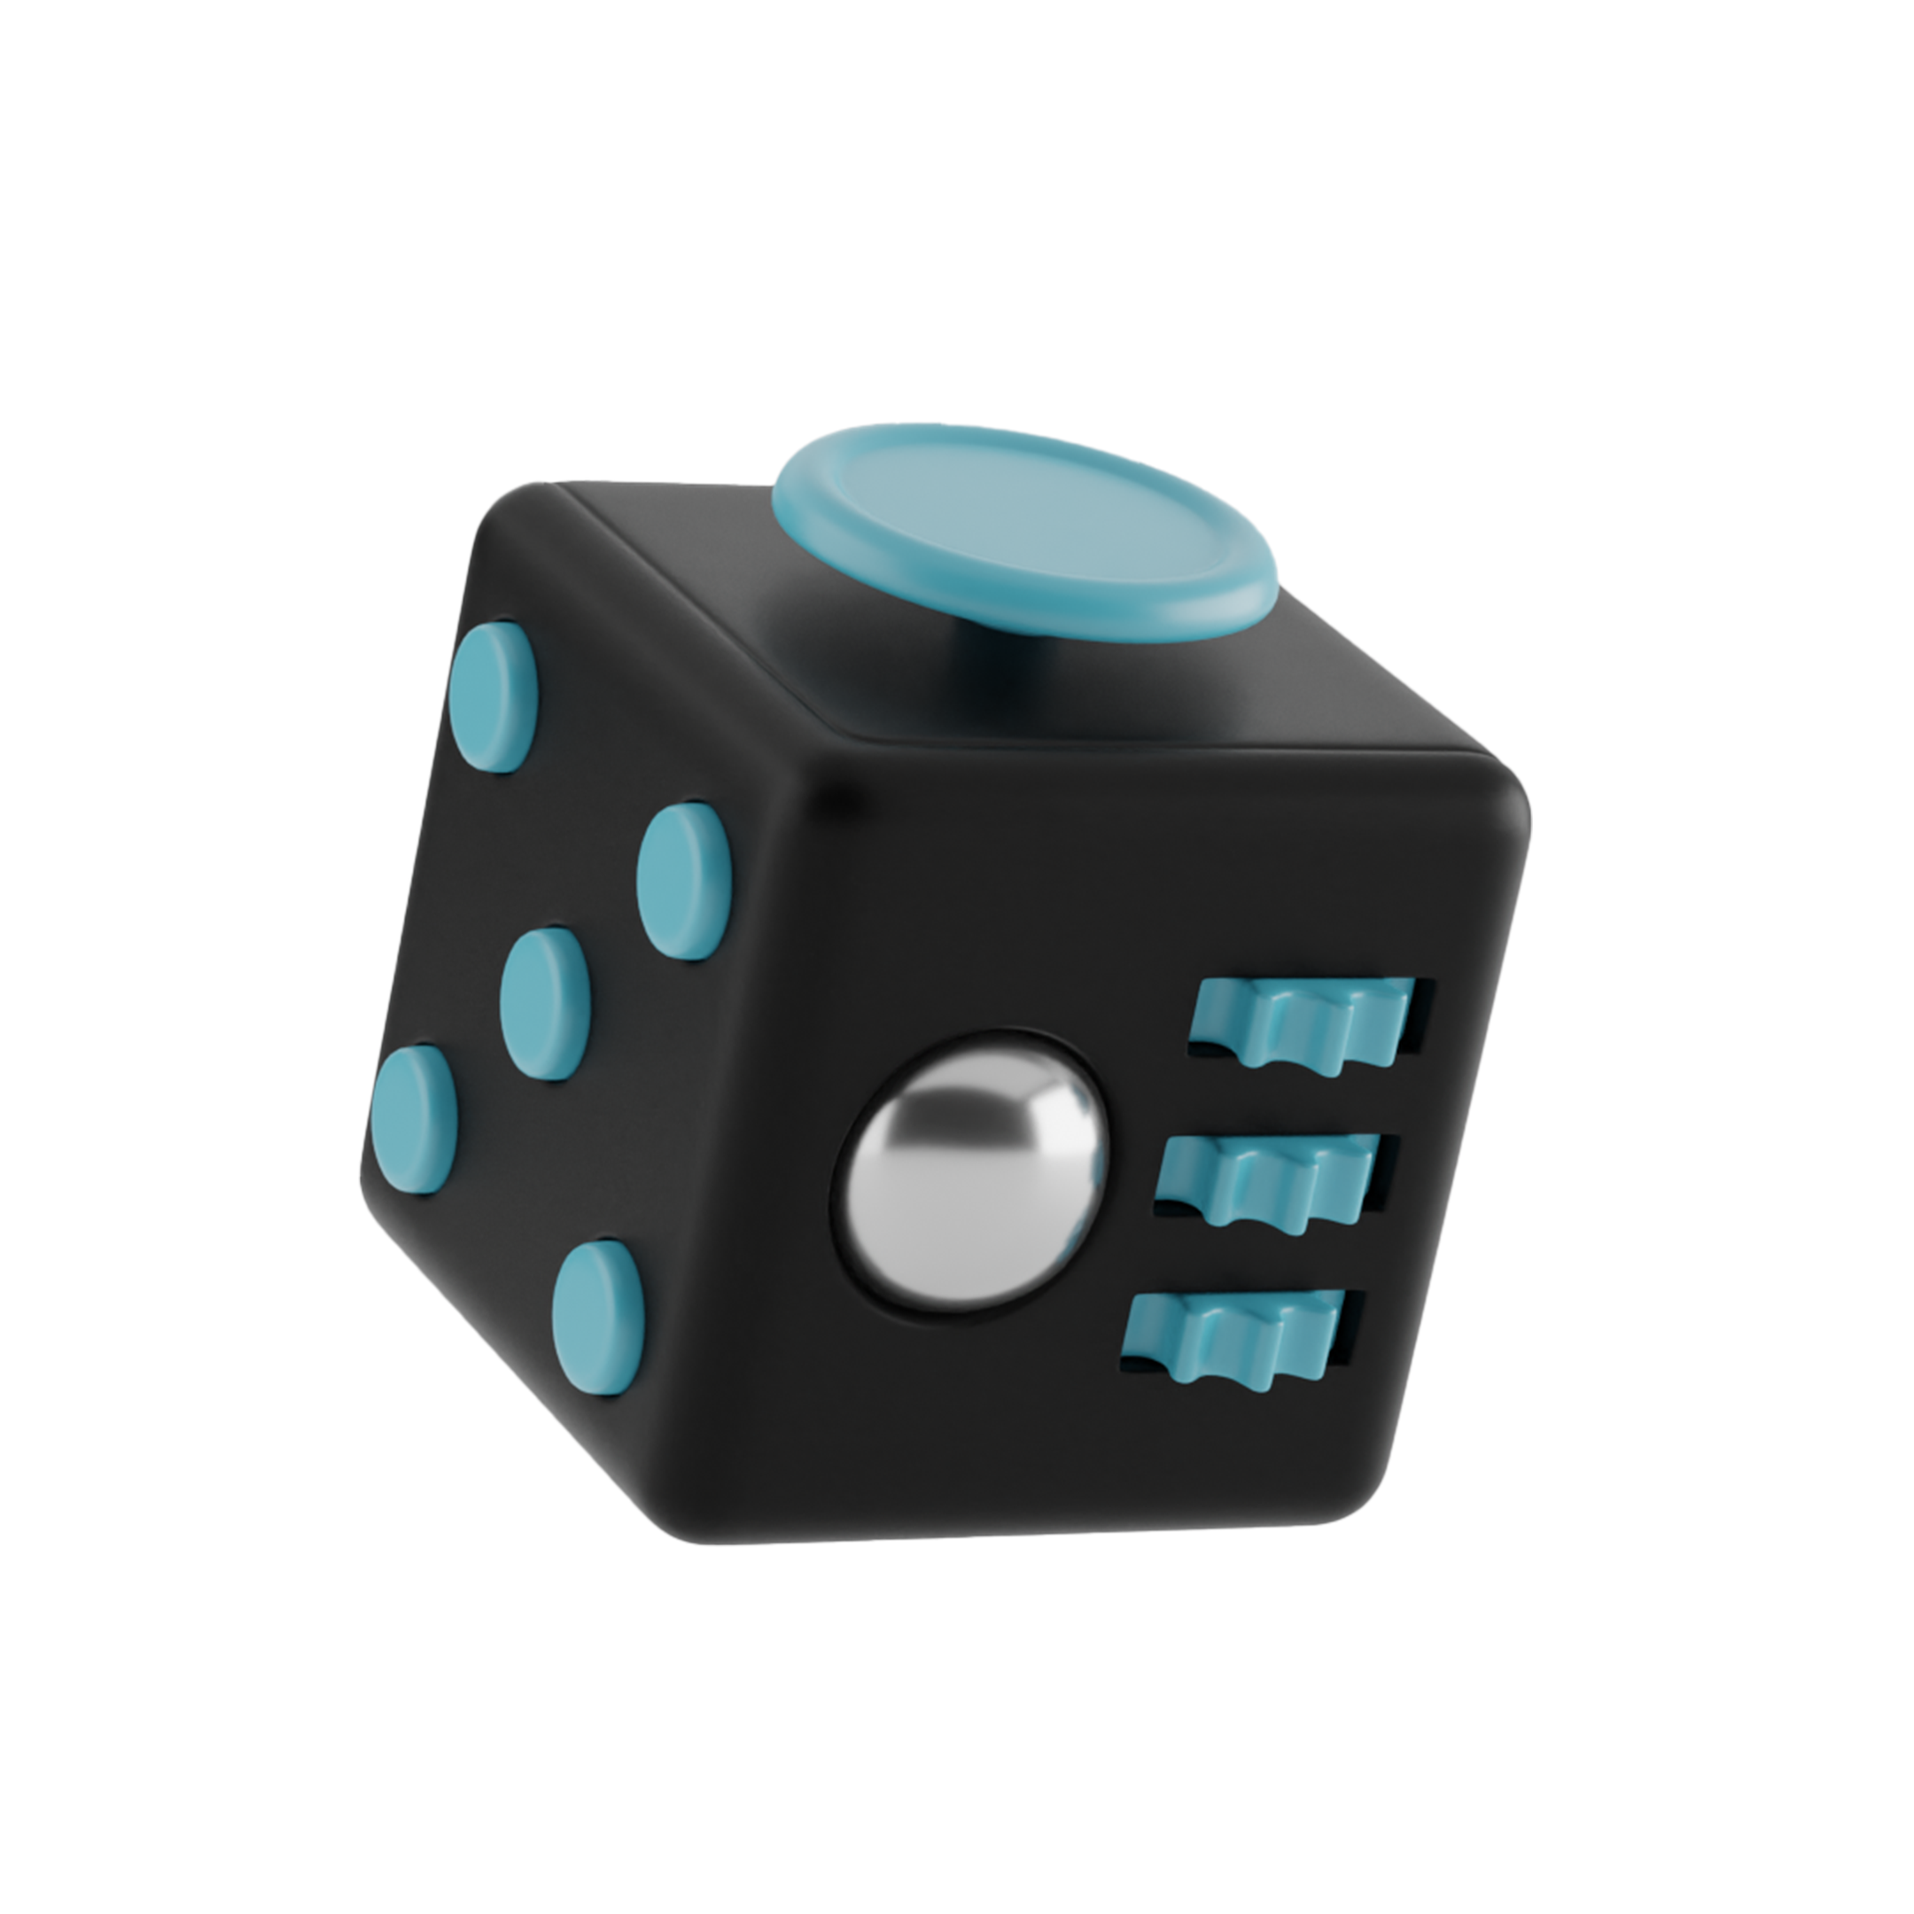
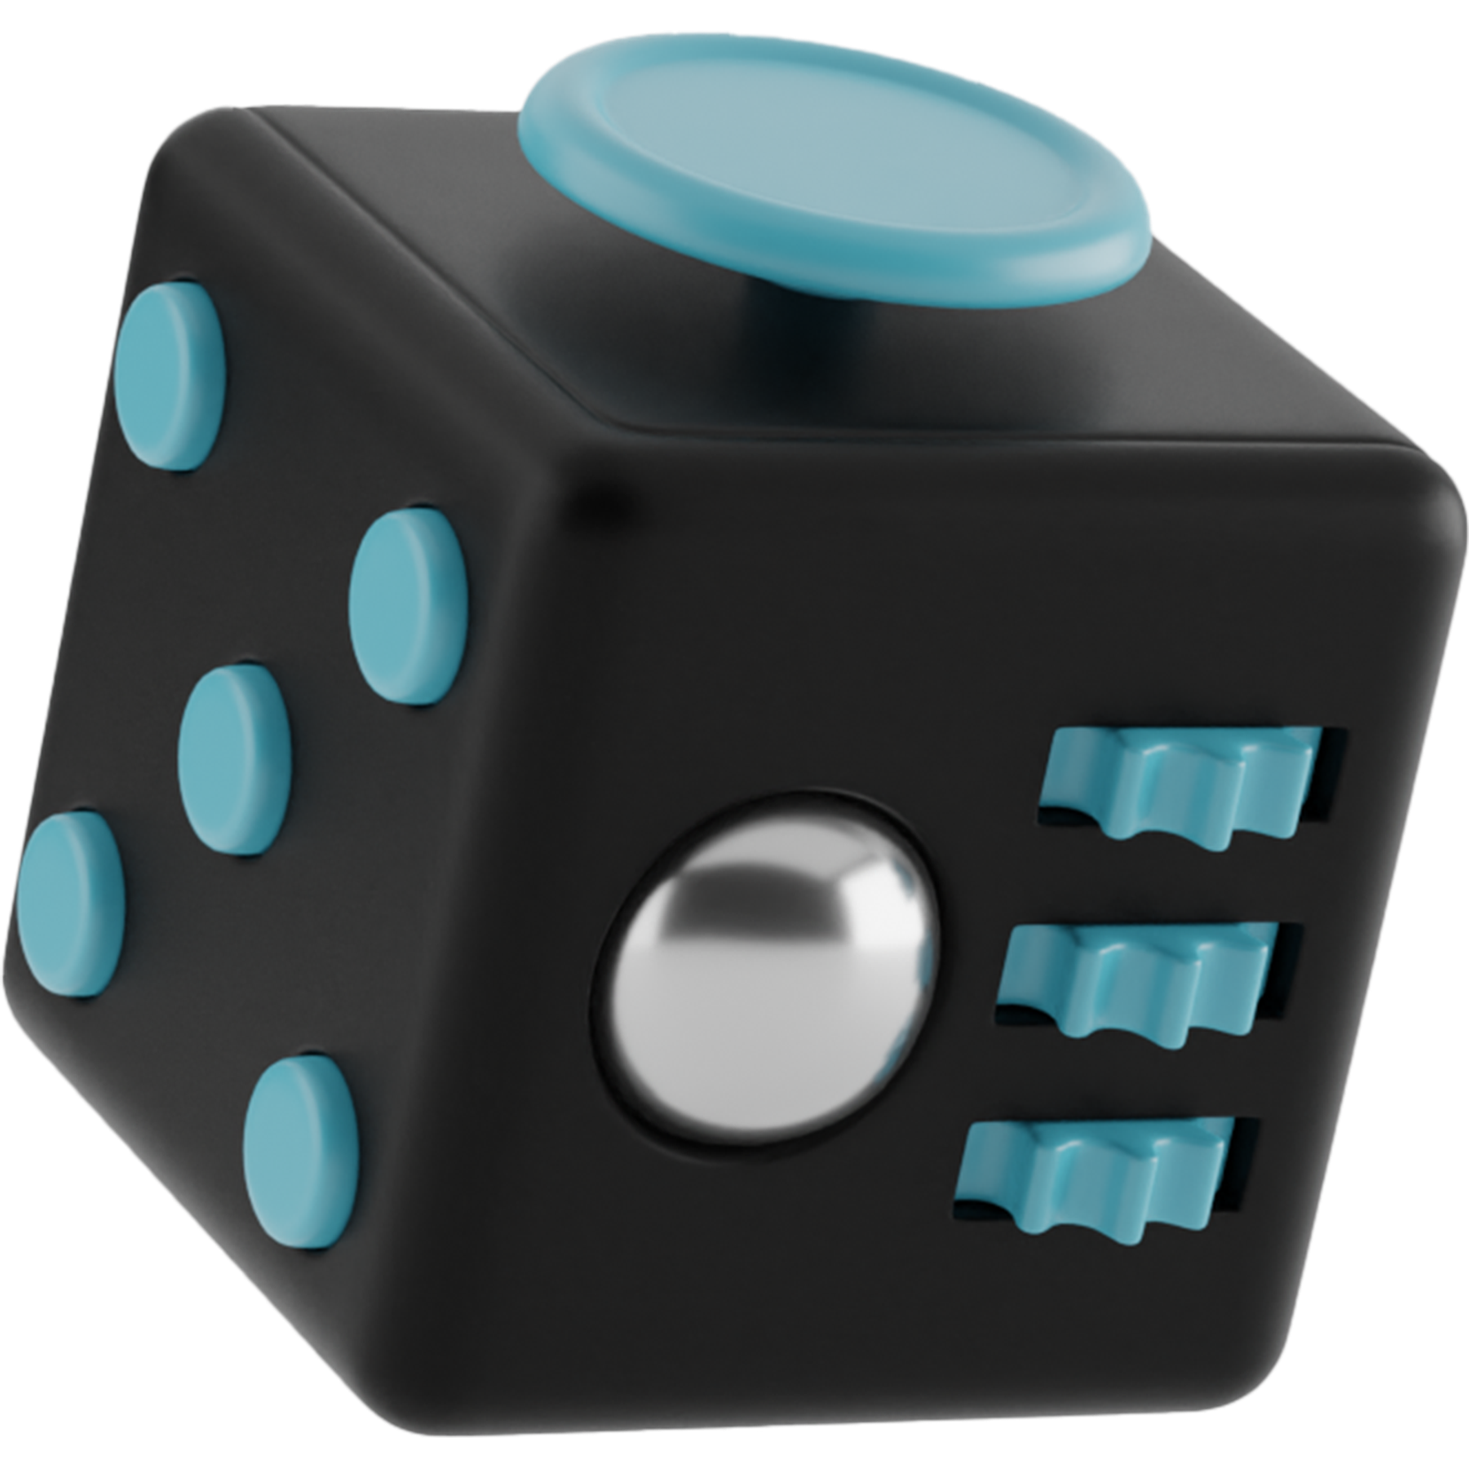
fix: remove Red/White variant and crop Fidget Cube images
- Remove Red/White variant (now 3 variants: Black/Green, Grey/Black, Black/Blue)
- Crop images to remove excess whitespace so cards display consistently
- Update Supabase with cropped images and reduced variants

diff --git a/scripts/update-fidget-cube.ts b/scripts/update-fidget-cube.ts
@@ -33,7 +33,6 @@ const imagesToUpload = [
   'fidget-cube-black-green.png',
   'fidget-cube-grey-black.png',
   'fidget-cube-black-blue.png',
-  'fidget-cube-red-white.png',
 ];
 
 async function uploadImages(): Promise<Record<string, string>> {
@@ -77,7 +76,6 @@ async function updateProduct(imageUrls: Record<string, string>) {
     { sku: 'FW-CUBE-BG', name: 'Fidget Cube', variant: 'Black/Green', color: 'Black/Green', colorHex: '#2d5a27', price: 14.99, image: imageUrls['fidget-cube-black-green.png'] || `${supabaseUrl}/storage/v1/object/public/${BUCKET_NAME}/fidget-cube-black-green.png` },
     { sku: 'FW-CUBE-GB', name: 'Fidget Cube', variant: 'Grey/Black', color: 'Grey/Black', colorHex: '#4a4a4a', price: 14.99, image: imageUrls['fidget-cube-grey-black.png'] || `${supabaseUrl}/storage/v1/object/public/${BUCKET_NAME}/fidget-cube-grey-black.png` },
     { sku: 'FW-CUBE-BB', name: 'Fidget Cube', variant: 'Black/Blue', color: 'Black/Blue', colorHex: '#1e3a5f', price: 14.99, image: imageUrls['fidget-cube-black-blue.png'] || `${supabaseUrl}/storage/v1/object/public/${BUCKET_NAME}/fidget-cube-black-blue.png` },
-    { sku: 'FW-CUBE-RW', name: 'Fidget Cube', variant: 'Red/White', color: 'Red/White', colorHex: '#C9475B', price: 14.99, image: imageUrls['fidget-cube-red-white.png'] || `${supabaseUrl}/storage/v1/object/public/${BUCKET_NAME}/fidget-cube-red-white.png` },
   ];
 
   const { data: product } = await supabase

diff --git a/src/data/products.ts b/src/data/products.ts
@@ -236,7 +236,6 @@ export const productPages: ProductPage[] = [
       { sku: 'FW-CUBE-BG', name: 'Fidget Cube', variant: 'Black/Green', color: 'Black/Green', colorHex: '#2d5a27', price: 14.99, image: 'https://jzfesgxooirrjsnluphz.supabase.co/storage/v1/object/public/products/fidget-cube-black-green.png' },
       { sku: 'FW-CUBE-GB', name: 'Fidget Cube', variant: 'Grey/Black', color: 'Grey/Black', colorHex: '#4a4a4a', price: 14.99, image: 'https://jzfesgxooirrjsnluphz.supabase.co/storage/v1/object/public/products/fidget-cube-grey-black.png' },
       { sku: 'FW-CUBE-BB', name: 'Fidget Cube', variant: 'Black/Blue', color: 'Black/Blue', colorHex: '#1e3a5f', price: 14.99, image: 'https://jzfesgxooirrjsnluphz.supabase.co/storage/v1/object/public/products/fidget-cube-black-blue.png' },
-      { sku: 'FW-CUBE-RW', name: 'Fidget Cube', variant: 'Red/White', color: 'Red/White', colorHex: '#C9475B', price: 14.99, image: 'https://jzfesgxooirrjsnluphz.supabase.co/storage/v1/object/public/products/fidget-cube-red-white.png' },
     ],
     defaultVariantIndex: 0,
     description: `<p>The original 6-sided fidget companion. Each face of this pocket-sized cube features a different tactile experience: click, glide, flip, breathe, roll, and spin.</p>
